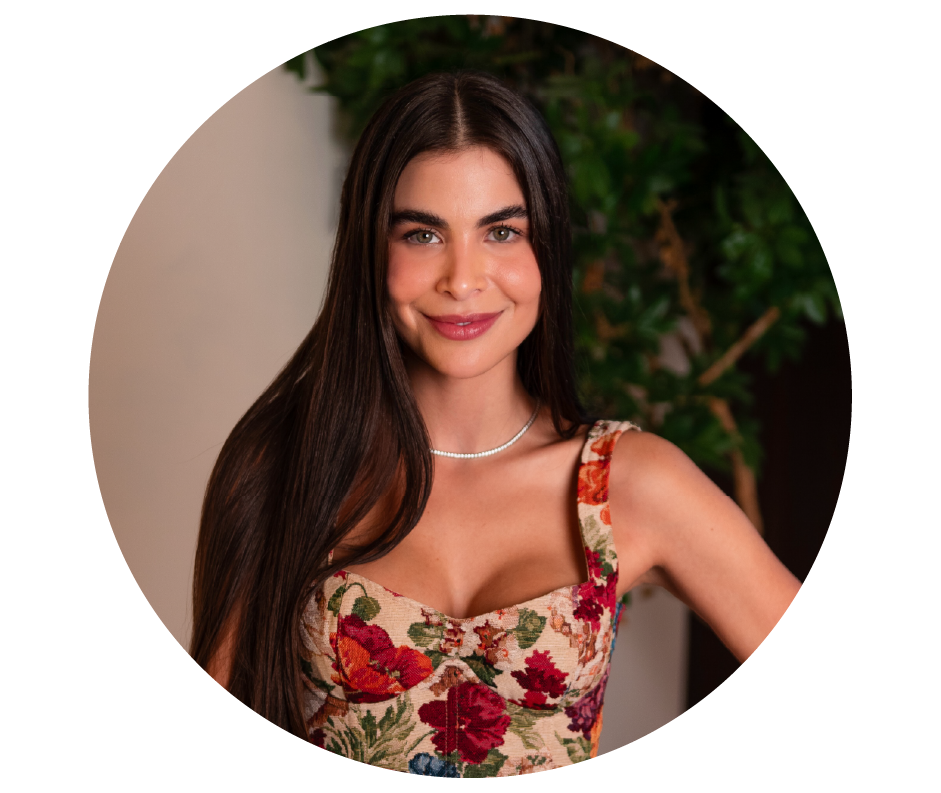
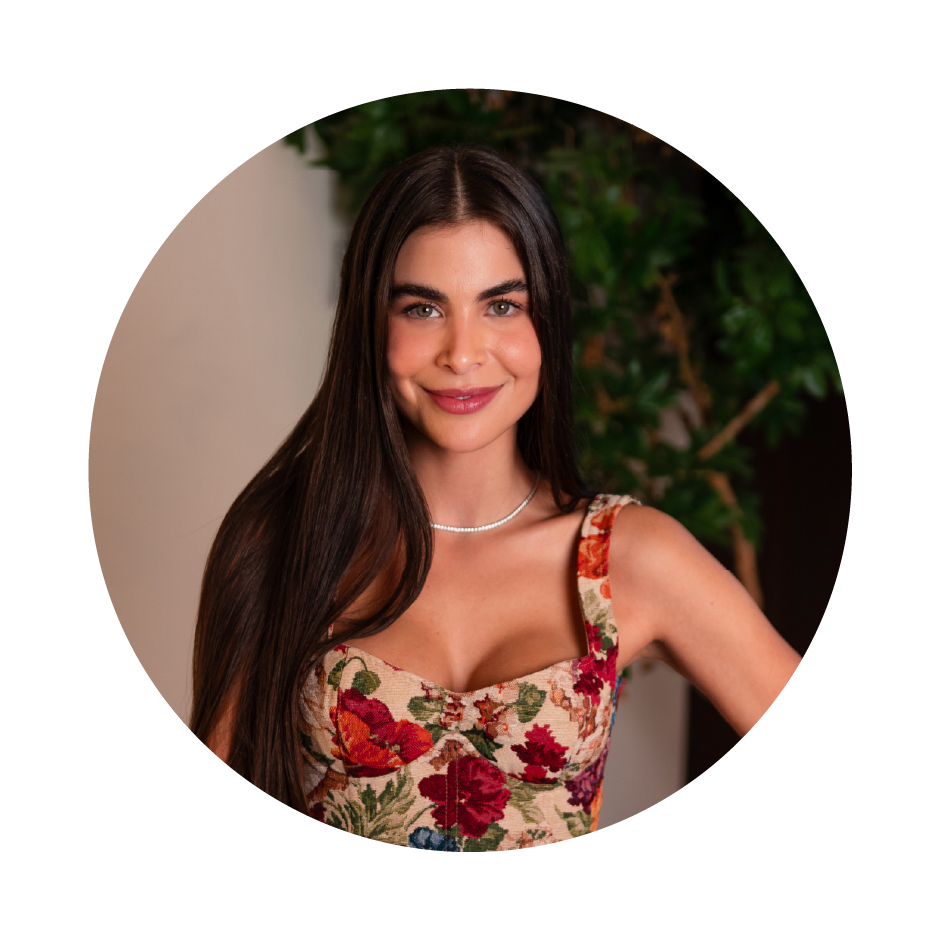
teste

diff --git a/email-liquidacao6/index.html b/email-liquidacao6/index.html
@@ -120,14 +120,7 @@
   
   
   
-    <td class="intro-photo" width="35%" valign="middle" align="center" style="width:35%;vertical-align:middle;"><div class="intro-photo-inner" style="padding-right:25px;"><img
-      class="intro-image"
-      src="https://gabriellrojo.github.io/breton-media/email-liquidacao6/beatriz.png"
-      width="180"
-      height="180"
-      alt="Beatriz"
-      style="display:block;width:180px;height:180px;border:0;outline:none;box-shadow:none;margin:0;padding:0;"
-    ></div></td>
+    <td class="intro-photo" width="35%" valign="middle" align="center" style="width:35%;vertical-align:middle;"><div class="intro-photo-inner" style="padding-right:25px;"><img class="intro-image" src="https://gabriellrojo.github.io/breton-media/email-liquidacao6/beatriz.png" width="180" height="180" alt="Beatriz" style="display:block;width:180px;height:180px;border:0;outline:none;box-shadow:none;margin:0;padding:0;"></div></td>
   
   
   
